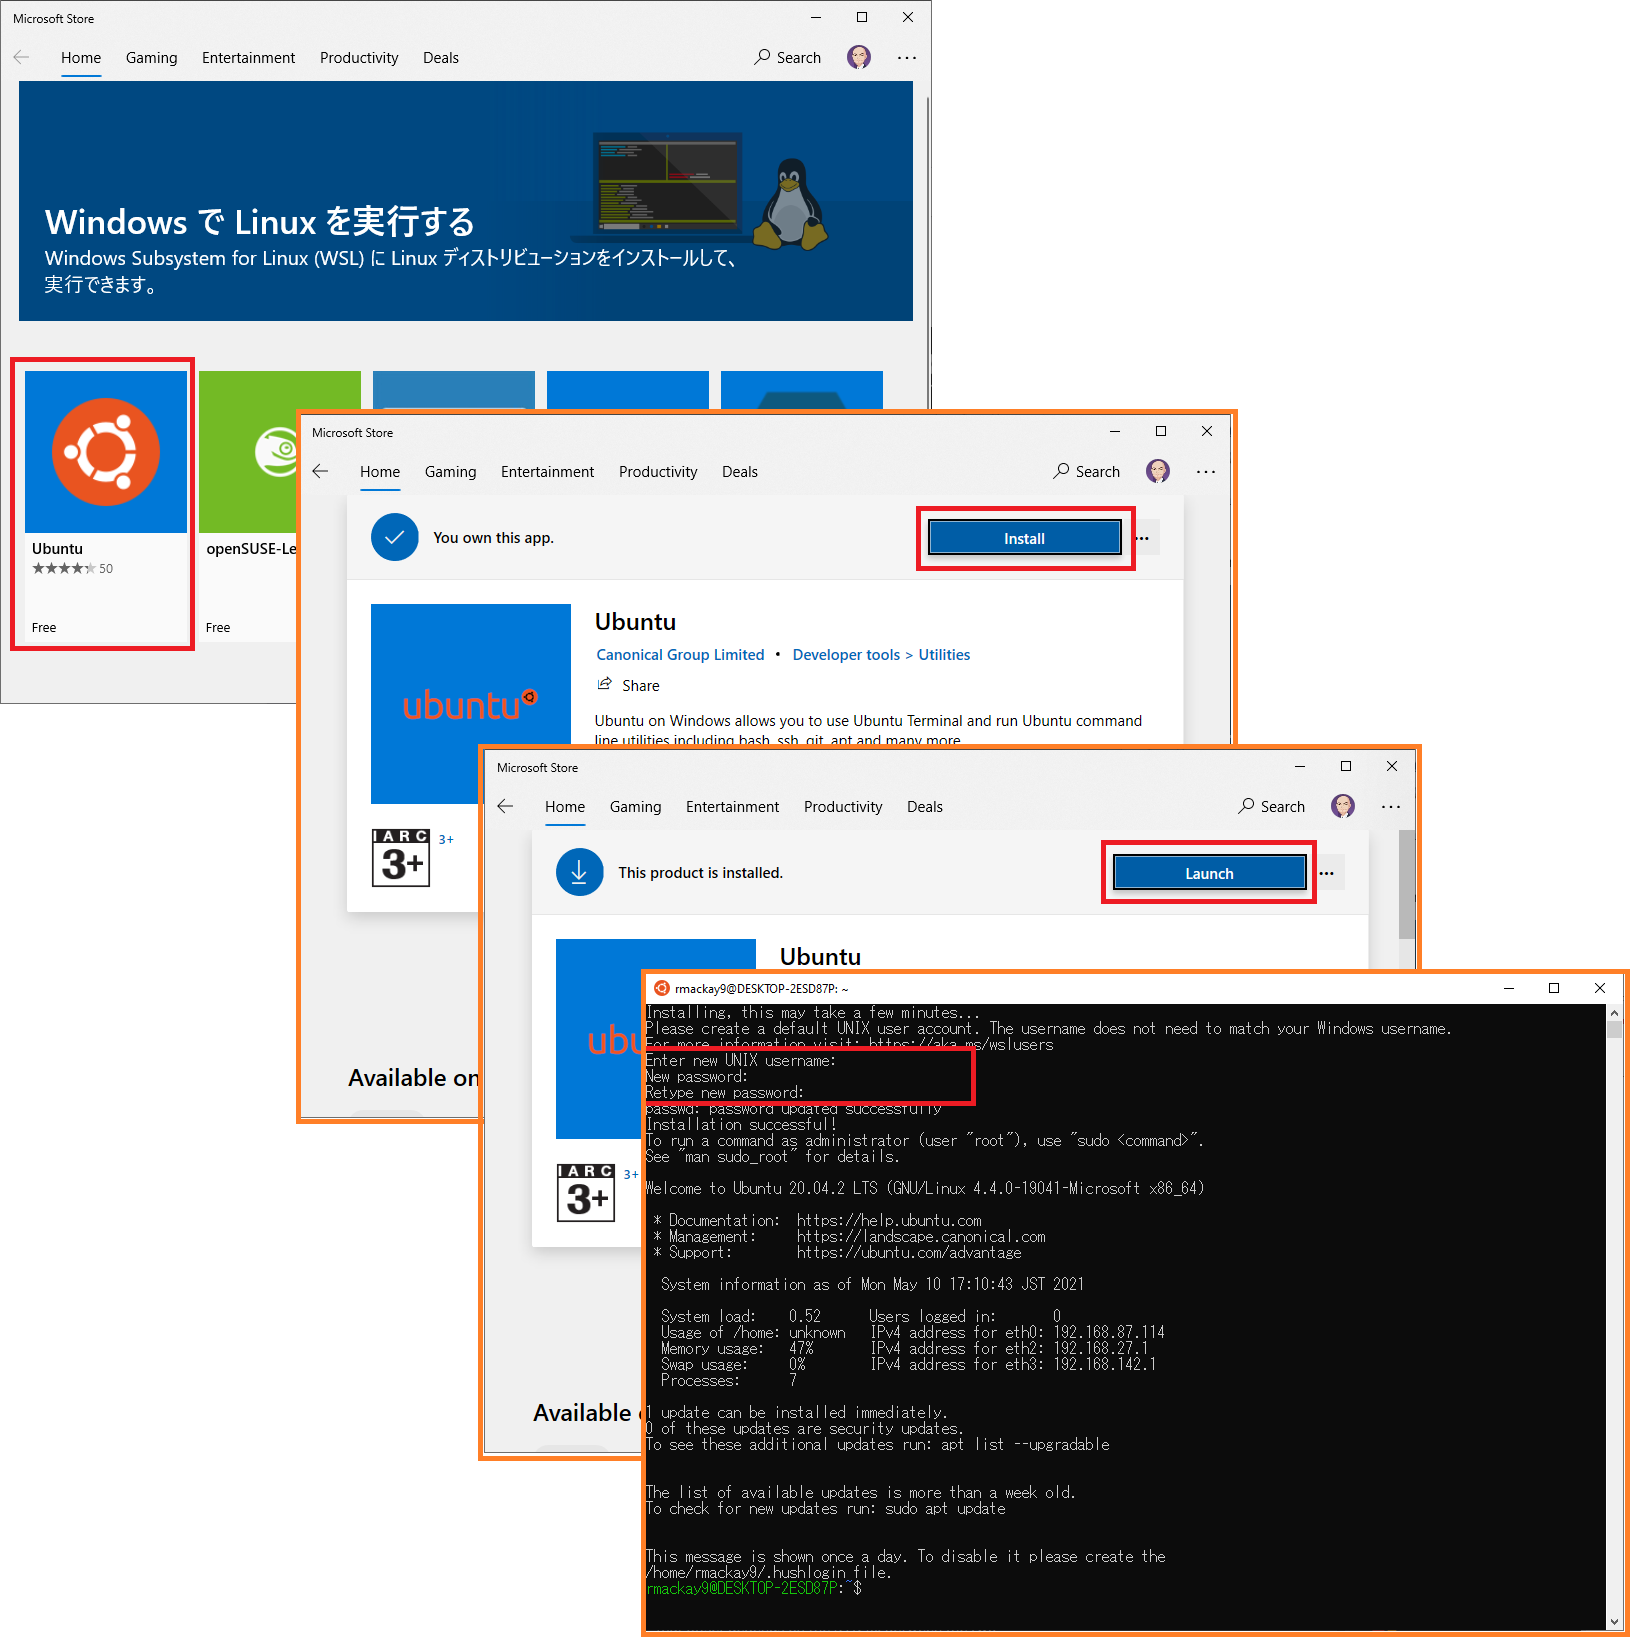
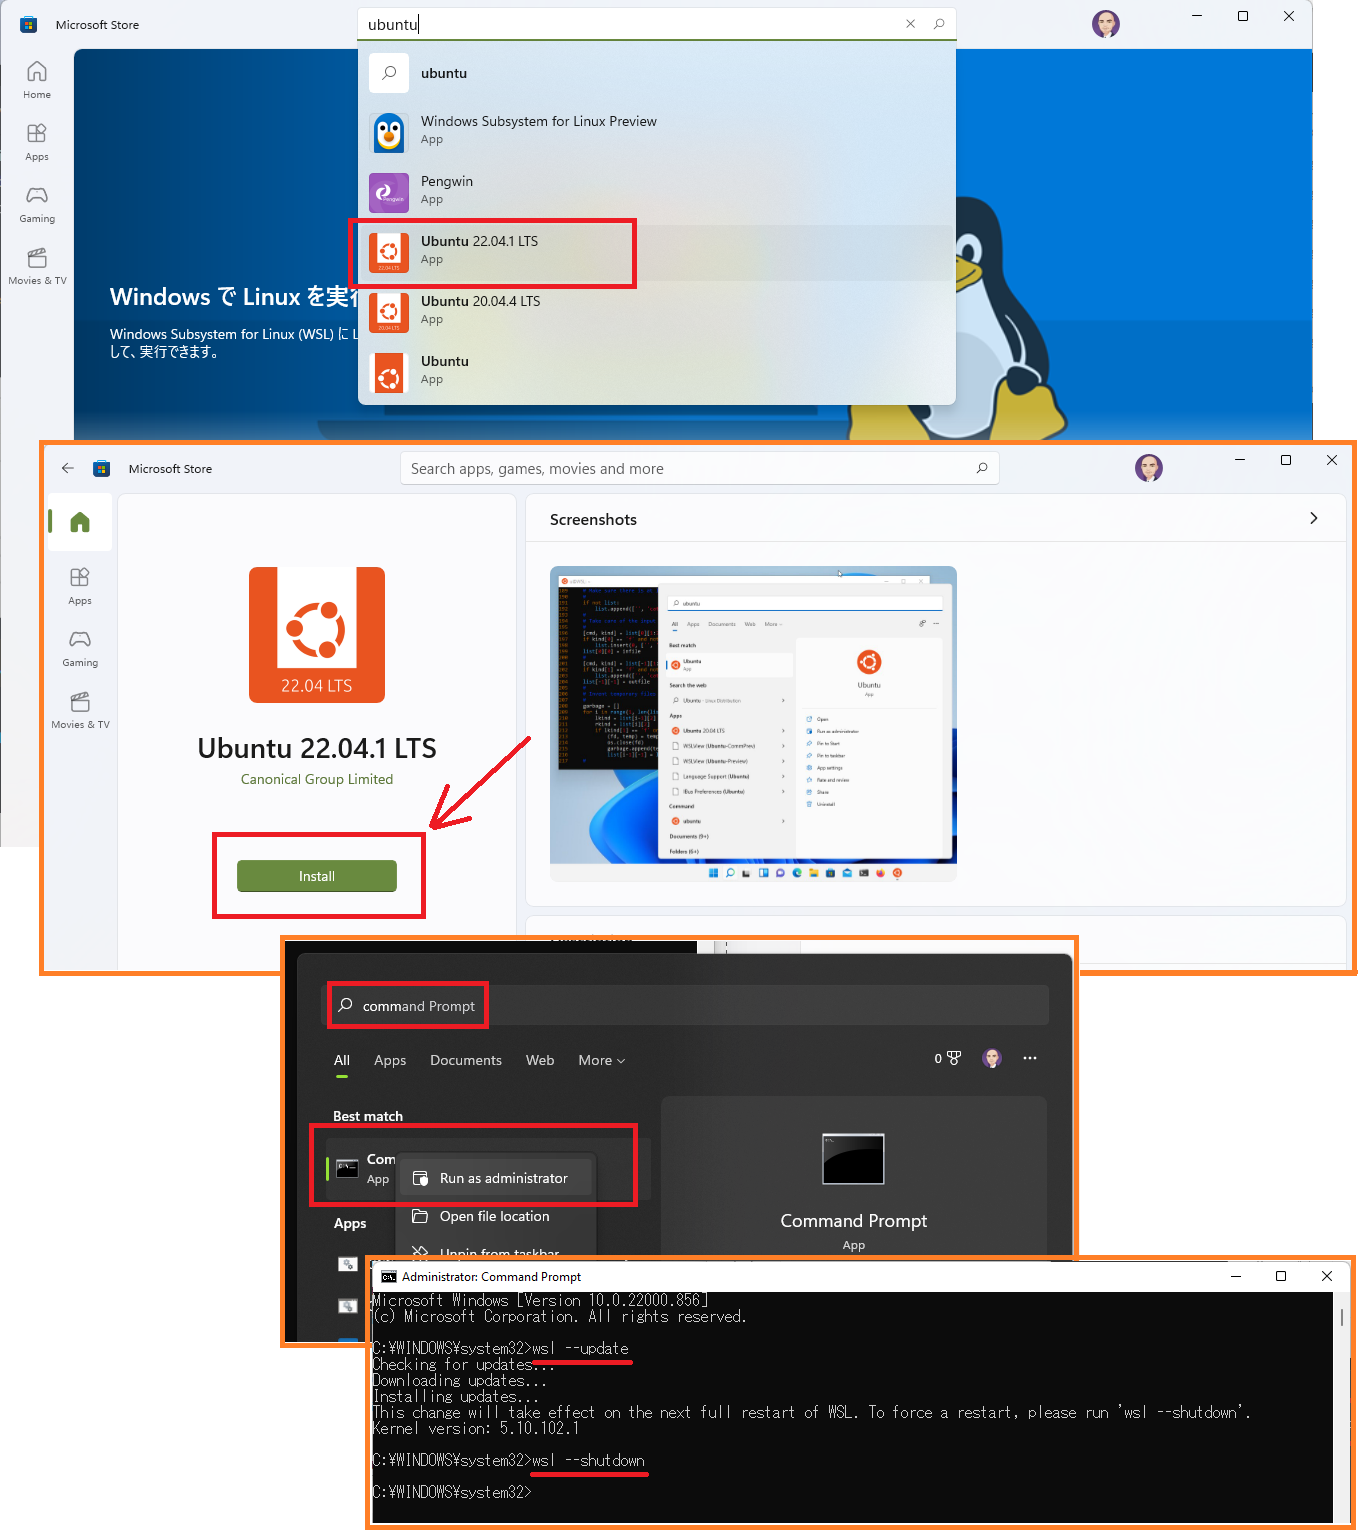
dev: update WSL2 on Windows11 instructions

diff --git a/dev/source/docs/building-setup-windows10.rst b/dev/source/docs/building-setup-windows10.rst
@@ -24,12 +24,12 @@ The official instructions are `here <https://docs.microsoft.com/en-us/windows/ws
     .. image:: ../images/build-on-windows10-wsl-install.png
         :target: ../_images/build-on-windows10-wsl-install.png
 
-#. From a web browser open `https://aka.ms/wslstore <https://aka.ms/wslstore>`_ which should open the Microsoft store to allow installing Ubuntu. Then Launch Ubuntu and fill in a username and login
+#. From a web browser open `https://aka.ms/wslstore <https://aka.ms/wslstore>`_ which should open the Microsoft store to allow installing and launching Ubuntu 22.04.  If the launch fails it may be necessary to open a command prompt (as administrator) and run "wsl --update" and "wsl --shutdown" before launching Ubuntu 22.04 again and then following the setup steps.
 
     .. image:: ../images/build-on-windows10-wsl-install-part2.png
         :target: ../_images/build-on-windows10-wsl-install-part2.png
 
-#. From the Start menu, start the "Ubuntu" application and then follow the :ref:`Ubuntu instructions to install ArduPilot development environment <building-setup-linux>`
+#. From the Start menu, start the "Ubuntu 22.04" application and then follow the :ref:`Ubuntu instructions to install ArduPilot development environment <building-setup-linux>`
 
     .. note::
 
